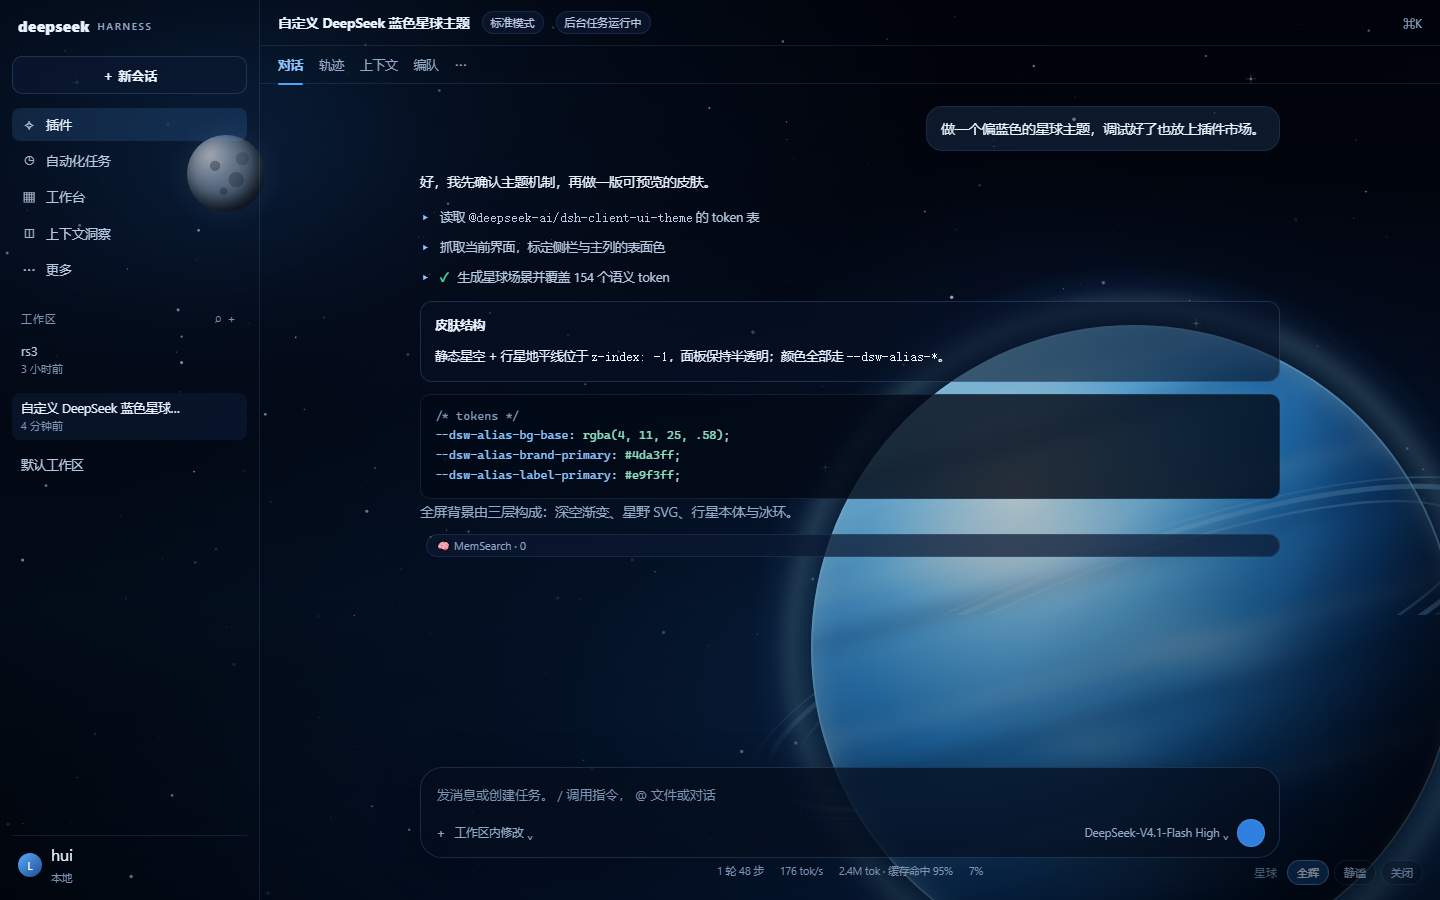
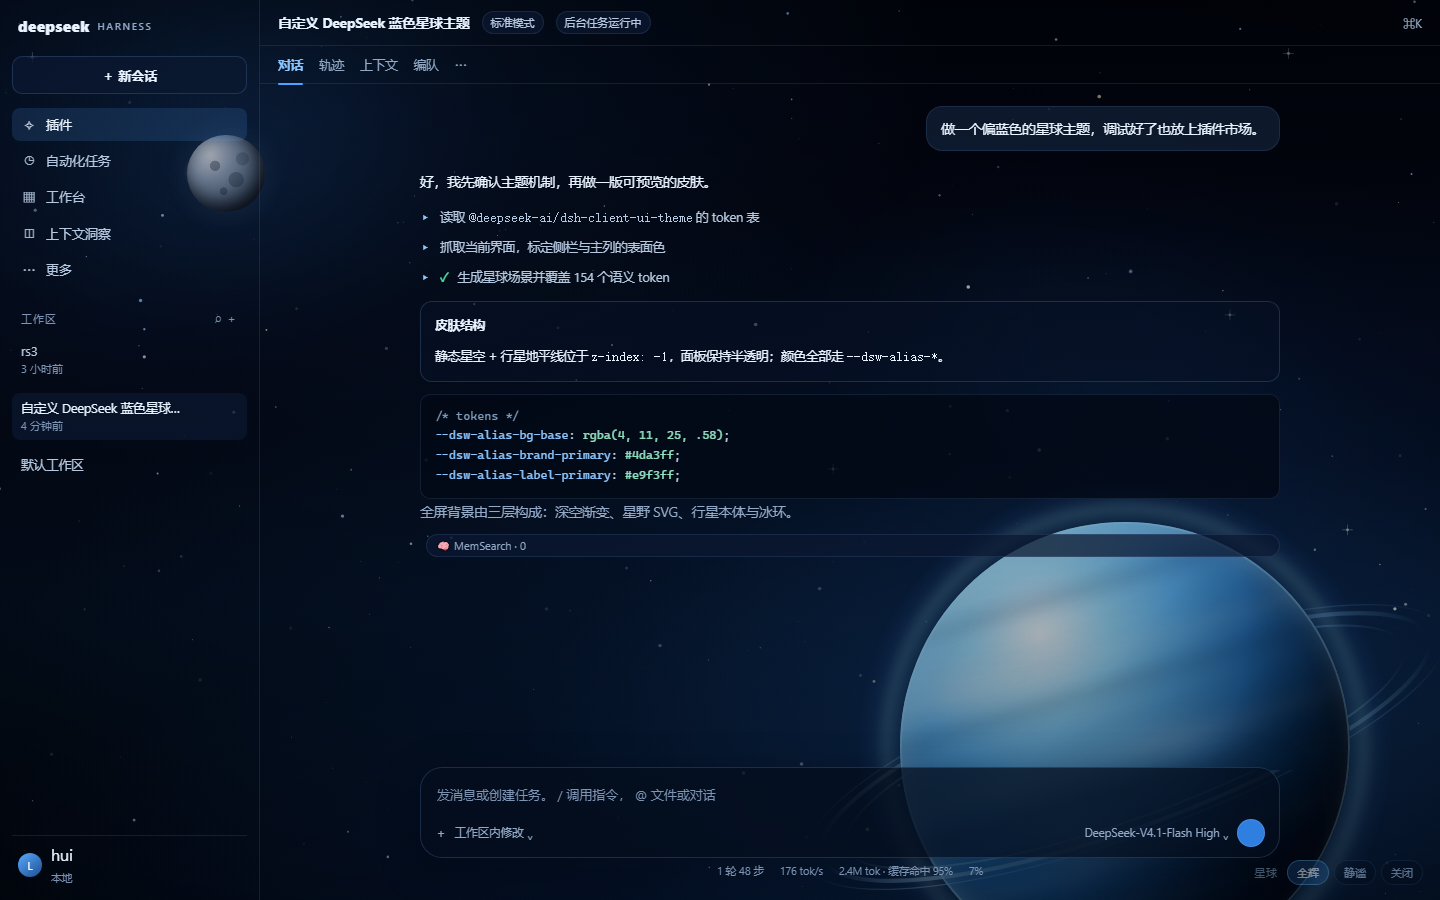
v0.2.0: living scene (planet float, cloud churn, star drift), true-sphere shading, distinct calm mode

diff --git a/client.js b/client.js
@@ -7,15 +7,18 @@
  * `--dsw-alias-*` design tokens the interface already reads — no component
  * CSS is patched.
  *
- * The scene is deliberately cheap to composite:
- *   - the sky, nebula, planet and veil are static gradients / SVG;
- *   - only a handful of stars twinkle, the atmosphere breathes, and one
- *     comet crosses the sky; all three are opacity / transform animations;
+ * The scene is deliberately cheap to composite — every moving part is an
+ * opacity / transform animation, no filters or shadows are animated:
+ *   - stars twinkle and the whole starfield drifts;
+ *   - nebulae breathe and wander;
+ *   - the planet floats while its cloud deck slowly churns;
+ *   - the moon bobs, the atmosphere breathes, a comet crosses the sky;
  *   - every animation pauses while the document is hidden.
  *
  * The theme is a skin: installing it applies it; the small bottom-right
- * palette lets the user soften (静谧) or hide (关闭) the scene without
- * uninstalling. The choice is remembered in localStorage.
+ * palette picks the energy level — 全辉 (everything moves, full glow),
+ * 静谧 (dimmed and still, for reading), 关闭 (scene hidden). The choice
+ * is remembered in localStorage.
  */
 
 window.__ModuleLoader__.load({
@@ -249,16 +252,28 @@ html[data-bp-mode="off"] #${STAGE_ID} { display: none; }
 .bp-n1 {
   width: 70vmin; height: 44vmin; left: -8vmin; top: -6vmin;
   background: radial-gradient(closest-side, rgba(46, 130, 220, 0.20), rgba(20, 70, 150, 0) 74%);
-  transform: rotate(-18deg);
+  animation: bp-n1-drift 150s ease-in-out infinite alternate;
+}
+@keyframes bp-n1-drift {
+  from { transform: rotate(-18deg) translate3d(0, 0, 0) scale(1); }
+  to { transform: rotate(-14deg) translate3d(4%, -3%, 0) scale(1.08); }
 }
 .bp-n2 {
   width: 90vmin; height: 52vmin; right: -10vmin; top: 18vmin;
   background: radial-gradient(closest-side, rgba(30, 90, 170, 0.16), rgba(10, 40, 100, 0) 76%);
-  transform: rotate(24deg);
+  animation: bp-n2-drift 190s ease-in-out infinite alternate;
+}
+@keyframes bp-n2-drift {
+  from { transform: rotate(24deg) translate3d(0, 0, 0) scale(1); }
+  to { transform: rotate(28deg) translate3d(-3.5%, 3%, 0) scale(1.06); }
 }
 
-.bp-stars { position: absolute; inset: 0; }
+.bp-stars { position: absolute; inset: -3.5%; animation: bp-stars-drift 170s ease-in-out infinite alternate; }
 .bp-star-svg { position: absolute; inset: 0; width: 100%; height: 100%; }
+@keyframes bp-stars-drift {
+  from { transform: translate3d(0, 0, 0); }
+  to { transform: translate3d(-2.2%, 1.2%, 0); }
+}
 .bp-tw {
   animation: bp-tw var(--bp-dur, 6s) ease-in-out var(--bp-delay, 0s) infinite;
 }
@@ -267,14 +282,21 @@ html[data-bp-mode="off"] #${STAGE_ID} { display: none; }
   50% { opacity: calc(var(--bp-o, 0.6) * 0.32); }
 }
 
-/* A gas giant at the lower right: only its upper-left limb enters the frame. */
+/* A gas giant anchored in the lower-right corner — almost the whole sphere
+   is on screen so the limb and terminator read as a real ball, and the
+   whole body drifts slowly as if hanging in space. */
 .bp-planet {
   position: absolute;
-  right: -12vmin;
-  bottom: -18vmin;
-  width: 92vmin;
-  height: 92vmin;
+  right: 3vmin;
+  bottom: -15vmin;
+  width: 64vmin;
+  height: 64vmin;
   filter: saturate(1.05);
+  animation: bp-float 64s ease-in-out infinite alternate;
+}
+@keyframes bp-float {
+  from { transform: translate3d(0, 0, 0); }
+  to { transform: translate3d(-0.8vmin, -1.6vmin, 0); }
 }
 .bp-atmo {
   position: absolute;
@@ -301,25 +323,39 @@ html[data-bp-mode="off"] #${STAGE_ID} { display: none; }
   z-index: 1;
   border-radius: 50%;
   overflow: hidden;
-  background: radial-gradient(circle at 32% 26%,
-    #e7f9ff 0%,
-    #b4e6ff 10%,
-    #6dc2f8 24%,
-    #3290dc 40%,
-    #1765b4 56%,
-    #0c4183 70%,
-    #072a58 84%,
-    #03142e 94%,
-    #010710 100%);
+  /* Sphere shading: tight hot highlight, fast falloff, dark limb. */
+  background: radial-gradient(circle at 31% 25%,
+    #f2fcff 0%,
+    #d3f1ff 6%,
+    #9fdefc 15%,
+    #63b8f4 30%,
+    #2f83cf 46%,
+    #135a9f 60%,
+    #083767 72%,
+    #04203f 82%,
+    #020e20 91%,
+    #010714 100%);
   box-shadow:
     inset 0 0 0 1px rgba(170, 226, 255, 0.22),
     inset 14px 18px 70px rgba(185, 235, 255, 0.22);
 }
 
+/* The cloud deck churns: a slow shear across the visible face. The wrapper
+   is oversized (inset -14%) so the drift never exposes the disc edge. */
+.bp-surface {
+  position: absolute;
+  inset: -14%;
+  animation: bp-surface-drift 110s ease-in-out infinite alternate;
+}
+@keyframes bp-surface-drift {
+  from { transform: translate3d(-3.2%, 0.6%, 0) rotate(-7.5deg); }
+  to { transform: translate3d(3.2%, -0.6%, 0) rotate(-4.5deg); }
+}
+
 /* Cloud bands, softened; screen blend keeps them luminous. */
 .bp-bands {
   position: absolute;
-  inset: -14%;
+  inset: 0;
   background:
     repeating-linear-gradient(171deg,
       rgba(200, 235, 255, 0) 0 4.2%,
@@ -329,7 +365,6 @@ html[data-bp-mode="off"] #${STAGE_ID} { display: none; }
       rgba(200, 235, 255, 0) 11.2% 15.4%);
   filter: blur(8px);
   opacity: 0.85;
-  transform: rotate(-6deg);
 }
 .bp-clouds {
   position: absolute;
@@ -377,6 +412,7 @@ html[data-bp-mode="off"] #${STAGE_ID} { display: none; }
   inset: 0;
   width: 100%;
   height: 100%;
+  overflow: visible;
   pointer-events: none;
 }
 .bp-ring-back {
@@ -387,7 +423,7 @@ html[data-bp-mode="off"] #${STAGE_ID} { display: none; }
 .bp-ring-front {
   z-index: 2;
   opacity: 0.52;
-  clip-path: inset(-6% -6% 54% -6%);
+  clip-path: inset(54% -30% -30% -30%);
 }
 
 .bp-moon {
@@ -408,6 +444,11 @@ html[data-bp-mode="off"] #${STAGE_ID} { display: none; }
   box-shadow:
     inset -5px -7px 16px rgba(0, 0, 0, 0.72),
     0 0 3.4vmin rgba(150, 200, 255, 0.16);
+  animation: bp-moon-float 96s ease-in-out infinite alternate;
+}
+@keyframes bp-moon-float {
+  from { transform: translate3d(0, 0, 0); }
+  to { transform: translate3d(1.2vmin, -1.4vmin, 0); }
 }
 .bp-moon::before {
   content: "";
@@ -457,20 +498,42 @@ html[data-bp-mode="off"] #${STAGE_ID} { display: none; }
       rgba(1, 4, 10, 0.32) 100%);
 }
 
-/* Calm: no comet, slower breath and twinkle. */
+/* Mode switching eases instead of snapping. */
+#${STAGE_ID} { transition: opacity 1.2s ease; }
+
+/* 静谧: the scene steps back — clearly dimmer, and still (no drift, no
+   twinkle, no comet). Reads as a different state at a glance. */
+html[data-bp-mode="calm"] #${STAGE_ID} { opacity: 0.42; }
 html[data-bp-mode="calm"] .bp-comet { display: none; }
-html[data-bp-mode="calm"] .bp-tw { animation-duration: 13s; }
-html[data-bp-mode="calm"] .bp-atmo { animation-duration: 26s; }
+html[data-bp-mode="calm"] .bp-tw,
+html[data-bp-mode="calm"] .bp-atmo,
+html[data-bp-mode="calm"] .bp-stars,
+html[data-bp-mode="calm"] .bp-n1,
+html[data-bp-mode="calm"] .bp-n2,
+html[data-bp-mode="calm"] .bp-moon,
+html[data-bp-mode="calm"] .bp-planet,
+html[data-bp-mode="calm"] .bp-surface {
+  animation-play-state: paused !important;
+}
 
 /* Hidden document: freeze every animation. */
 html.bp-paused .bp-tw,
 html.bp-paused .bp-atmo,
-html.bp-paused .bp-comet {
+html.bp-paused .bp-comet,
+html.bp-paused .bp-stars,
+html.bp-paused .bp-n1,
+html.bp-paused .bp-n2,
+html.bp-paused .bp-moon,
+html.bp-paused .bp-planet,
+html.bp-paused .bp-surface {
   animation-play-state: paused !important;
 }
 
 @media (prefers-reduced-motion: reduce) {
-  .bp-tw, .bp-atmo, .bp-comet { animation: none !important; }
+  .bp-tw, .bp-atmo, .bp-comet, .bp-stars,
+  .bp-n1, .bp-n2, .bp-moon, .bp-planet, .bp-surface {
+    animation: none !important;
+  }
   .bp-comet { display: none; }
 }
 
@@ -610,12 +673,12 @@ html[data-bp-mode="off"] #${HUD_ID} { opacity: 0.72; }
           </linearGradient>
         </defs>
         <g transform="rotate(-20 500 500)">
-          <ellipse cx="500" cy="500" rx="470" ry="118" fill="none"
-            stroke="url(#bp-ring-grad-${position})" stroke-width="6"></ellipse>
-          <ellipse cx="500" cy="500" rx="431" ry="105" fill="none"
-            stroke="url(#bp-ring-grad-${position})" stroke-width="3" opacity="0.9"></ellipse>
-          <ellipse cx="500" cy="500" rx="492" ry="127" fill="none"
-            stroke="url(#bp-ring-grad-${position})" stroke-width="2" opacity="0.65"></ellipse>
+          <ellipse cx="500" cy="500" rx="560" ry="140" fill="none"
+            stroke="url(#bp-ring-grad-${position})" stroke-width="7"></ellipse>
+          <ellipse cx="500" cy="500" rx="514" ry="124" fill="none"
+            stroke="url(#bp-ring-grad-${position})" stroke-width="3.5" opacity="0.9"></ellipse>
+          <ellipse cx="500" cy="500" rx="590" ry="152" fill="none"
+            stroke="url(#bp-ring-grad-${position})" stroke-width="2.4" opacity="0.65"></ellipse>
         </g>
       </svg>`
     }
@@ -630,8 +693,10 @@ html[data-bp-mode="off"] #${HUD_ID} { opacity: 0.72; }
           <div class="bp-atmo"></div>
           ${ringSvg('back')}
           <div class="bp-disc">
-            <div class="bp-bands"></div>
-            <div class="bp-clouds"></div>
+            <div class="bp-surface">
+              <div class="bp-bands"></div>
+              <div class="bp-clouds"></div>
+            </div>
             <div class="bp-shade"></div>
             <div class="bp-rim"></div>
           </div>

diff --git a/README.md b/README.md
@@ -7,10 +7,10 @@
 ## 特点
 
 - **完整 token 覆盖**：154 个 `--dsw-alias-*` 与常用 `--dsw-specific-*` 变量，浅色 / 深色两套都强制为深蓝，切换系统主题不会闪回白色。
-- **静态星球场景**：深空渐变、星野 SVG、星云、月亮、带大气层 / 星环 / 云带 / 明暗终止线的冰蓝行星，全部由 CSS + SVG 绘制，无外部图片依赖。
+- **会动的星球场景**：深空渐变、星野 SVG、星云、月亮、带大气层 / 星环 / 云带 / 明暗终止线的冰蓝行星，全部由 CSS + SVG 绘制，无外部图片依赖。星野缓缓漂移、星云明灭、行星悬浮呼吸、云带缓慢翻涌、月亮轻晃，偶有彗星划过——所有动画只用 transform / opacity，页面隐藏时全部暂停。
 - **面板真正透明**：覆盖 `sidebarCol`、`centerCol` 和聊天根容器 `*_root` 的背景，行星不会被不透明底盖住。
-- **右下角 HUD**：`星球` 标签 + `全辉 / 静谧 / 关闭` 三种动效模式 + 全屏按钮；双击标签也可切换模式。选择记在 `localStorage`（键 `dsh-theme-blue-planet/mode`），刷新后保留。
-- **礼貌的动效**：页面隐藏时暂停；`prefers-reduced-motion: reduce` 下自动降级。
+- **右下角 HUD**：`星球` 标签 + `全辉 / 静谧 / 关闭` 三种动效模式。全辉=完整动效，静谧=画面变暗且完全静止（适合专注阅读），关闭=隐藏场景。选择记在 `localStorage`（键 `dsh-theme-blue-planet/mode`），刷新后保留。
+- **礼貌的动效**：页面隐藏时暂停；`prefers-reduced-motion: reduce` 下自动降级为静态场景。
 
 ## 安装
 
@@ -20,12 +20,13 @@
 dsh plugin --profile desktop add github:lianghui32/dsh-theme-blue-planet
 ```
 
-也可以下载 [v0.1.0 release](https://github.com/lianghui32/dsh-theme-blue-planet/releases/tag/v0.1.0) 里的 `.tgz`，拖进市场安装。安装后主题立即生效（Host 热挂载）。
+也可以下载 [最新 release](https://github.com/lianghui32/dsh-theme-blue-planet/releases) 里的 `.tgz`，拖进市场安装。安装后主题立即生效（Host 热挂载）。
 
 ## 说明
 
 - 这是一个 **skin**：它强制深蓝配色，不注册 `ThemeService`，所以不会出现在“浅色 / 深色 / 跟随系统”的主题选择器里。想恢复原样，禁用或卸载本插件即可。
 - 星环、云带在真实界面里是“透过半透明面板看到的背景层”，会比预览图更淡；这是为了让正文保持可读。
+- 动画全部是缓慢的（几十秒到几分钟一个周期），盯着看几秒才能察觉位移；这不是 bug，是设计。
 - 推荐在 1280×800 以上窗口使用；更小的窗口会隐藏 HUD 标签，只保留按钮。
 
 ## 兼容性
